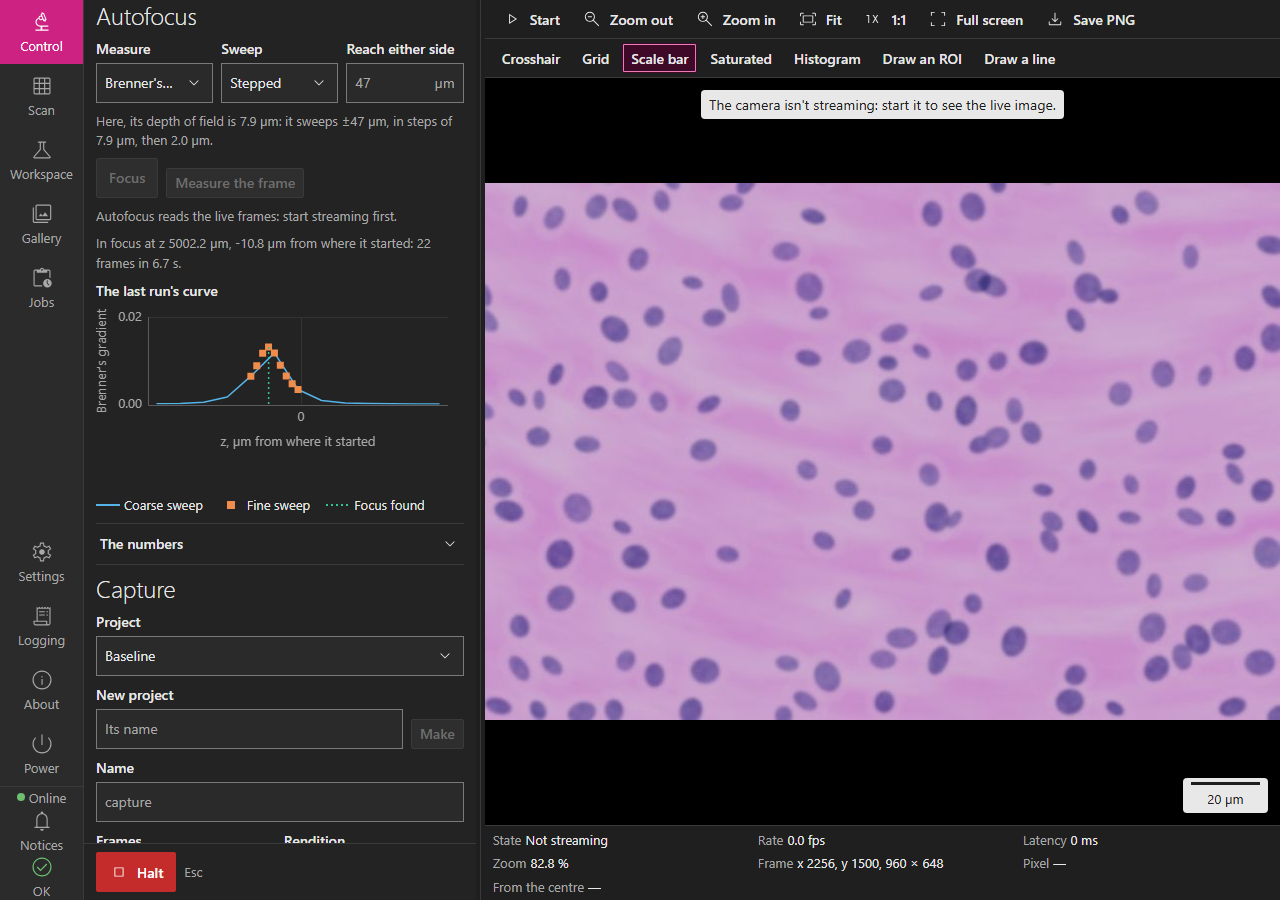
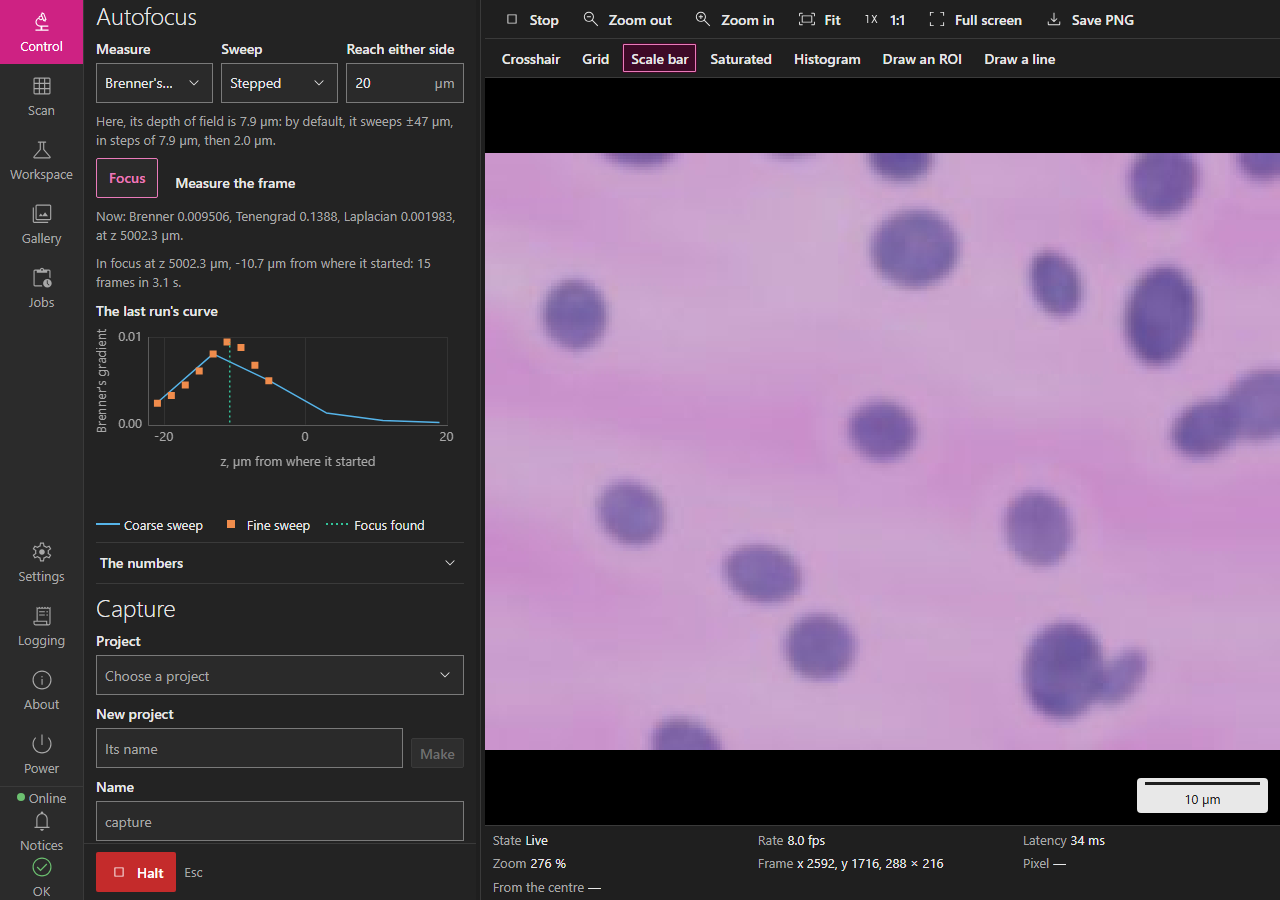
W3.7: the actions' tests light on the processor
The gate's Windows replay failed three times: run eight at once and
unpinned, W3.7's tests held the whole computer, and others timed out.
An autofocus sweep renders the simulator's slide afresh at each z: a
debug server took 38 s of processor time over one, twice at once.

- The actions' tests use a 288 x 216 region; autofocus's sweeps 20 um
  either side, which the test checks was sent; the visual test runs no
  sweep of its own. A sweep now takes 12.6 s of processor time, and
  the suite, unpinned, 2.2 min instead of 5.7.
- The notes' pictures are the autofocus test's.
- A capture's thumbnail has a box of its own, so the pane doesn't move
  with the frame's shape.
- The defaults' line says "by default", beside a reach typed.

diff --git a/web/tests/e2e/actions.spec.ts b/web/tests/e2e/actions.spec.ts
@@ -11,7 +11,7 @@ import { projectPage } from "../../src/api/projects.ts";
 import { expectAccessible } from "./axe.ts";
 import { choose, expect, inScheme, shot, test } from "./fixtures.ts";
 import { colourOf, rgbOf } from "./pixels.ts";
-import { offFocus, overTissue } from "./sim.ts";
+import { offFocus, overTissueTiny } from "./sim.ts";
 
 const said = (page: Page, name: string) => page.locator(`[data-said="${name}"]`);
 const image = (page: Page) => page.getByRole("img", { name: /^The live image/ });
@@ -34,21 +34,49 @@ async function stageZ(url: string): Promise<number> {
 // The server does the sweep: one browser is enough.
 test("autofocus takes the stage to the simulator's true focus", async ({ page, server }) => {
   test.setTimeout(240_000);
-  // 12 µm above the focus, as P34's server test starts.
+  // 12 µm above the focus, as P34's server test starts. A reach of 20 µm sweeps two
+  // thirds of the default's frames: each is the simulator's, rendered at its z, and a
+  // debug server's sweep takes several cores.
   const truth = await offFocus(server.url, 12);
+  // The notes' window, for their pictures below.
+  await page.setViewportSize({ width: 1280, height: 900 });
   await streaming(page, server.url);
   const pane = said(page, "autofocus");
+  const reach = pane.getByRole("spinbutton", { name: "Reach either side" });
+  await reach.fill("20");
+  await reach.press("Enter");
   await pane.getByRole("button", { name: "Focus", exact: true }).click();
   await expect(said(page, "focused")).toContainText("In focus at z", { timeout: 180_000 });
   // Within a quarter of the depth of field, as the server's own test asks.
   const on = new Api(server.url);
-  const last = await call((signal) => on.api.GET("/api/v1/autofocus/last", { signal }));
+  const last = (await call((signal) => on.api.GET("/api/v1/autofocus/last", { signal })))!;
   const error = (await stageZ(server.url)) - truth;
-  expect(Math.abs(error)).toBeLessThan(last!.depth_of_field_um / 4);
+  expect(Math.abs(error)).toBeLessThan(last.depth_of_field_um / 4);
+  // The reach typed is the one swept, a coarse step at most past it.
+  const swept = last.coarse.map((point) => Math.abs(point.z_um - last.start_um));
+  expect(Math.max(...swept)).toBeLessThan(20 + last.depth_of_field_um);
   // The curve, and the frame's measures, read when asked.
   await expect(pane.getByText("The last run's curve")).toBeVisible();
   await pane.getByRole("button", { name: "Measure the frame" }).click();
   await expect(said(page, "measures")).toContainText("Brenner");
+
+  // The notes' pictures: the pane scrolled to the actions, once it scrolls.
+  const controls = page.getByRole("region", { name: "The controls" });
+  await expect
+    .poll(() => controls.evaluate((box) => box.scrollHeight > box.clientHeight))
+    .toBe(true);
+  // Scrolled at each look: the pane takes the window's height a moment after it, and a
+  // scroll before then is undone (W3.7, whose panes made the pane overflow sooner).
+  await expect
+    .poll(async () => {
+      await pane.evaluate((section) => section.scrollIntoView({ block: "start" }));
+      return (await pane.boundingBox())!.y;
+    })
+    .toBeLessThan(100);
+  for (const scheme of ["light", "dark"] as const) {
+    await inScheme(page, scheme);
+    await shot(page, `W3.7-actions-${scheme}`);
+  }
 });
 
 test("a capture makes a record in a project made there, and a burst one of its frames @main", async ({
@@ -56,7 +84,7 @@ test("a capture makes a record in a project made there, and a burst one of its f
   server,
 }) => {
   test.setTimeout(150_000);
-  await overTissue(server.url);
+  await overTissueTiny(server.url);
   await streaming(page, server.url);
   const pane = said(page, "capture");
   await pane.getByRole("textbox", { name: "New project" }).fill("Slides of W3.7");
@@ -114,7 +142,7 @@ test("a live recipe is set and cleared, and one that reads a reference waits for
   server,
 }) => {
   test.setTimeout(150_000);
-  await overTissue(server.url);
+  await overTissueTiny(server.url);
   const on = new Api(server.url);
   await call((signal) => on.api.PUT("/api/v1/camera/exposure", { body: 10, signal }));
   // A debug build's recipes take ten times a release's, and more on two cores: the
@@ -160,7 +188,7 @@ test("the tab's actions have no violation axe can find, in either theme", async 
   server,
 }) => {
   test.setTimeout(150_000);
-  await overTissue(server.url);
+  await overTissueTiny(server.url);
   await streaming(page, server.url);
   await act("/api/v1/projects/create", { name: "Axe" }, { on: new Api(server.url) });
   await page.reload();
@@ -173,13 +201,11 @@ test("the tab's actions have no violation axe can find, in either theme", async 
 
 test("the tab's actions look as their baselines do @visual", async ({ page, server }) => {
   test.skip(!process.env.OSCOPE_VISUAL, "the baselines are one computer's: OSCOPE_VISUAL=1 there");
-  test.setTimeout(240_000);
+  test.setTimeout(150_000);
   // Tall enough for the whole pane: the stage's Halt, sticky at its foot, covers a scrolled one.
   await page.setViewportSize({ width: 1280, height: 4000 });
-  await offFocus(server.url, 12);
+  await overTissueTiny(server.url);
   await streaming(page, server.url);
-  await said(page, "autofocus").getByRole("button", { name: "Focus", exact: true }).click();
-  await expect(said(page, "focused")).toContainText("In focus at z", { timeout: 180_000 });
   await said(page, "capture").getByRole("textbox", { name: "New project" }).fill("Baseline");
   await said(page, "capture").getByRole("button", { name: "Make", exact: true }).click();
   await said(page, "capture-run").click();
@@ -189,34 +215,12 @@ test("the tab's actions look as their baselines do @visual", async ({ page, serv
   await page.mouse.move(5, 5);
   for (const scheme of ["light", "dark"] as const) {
     await inScheme(page, scheme);
-    // The run's numbers, its curve and the thumbnail are the simulator's: masked.
-    await expect(said(page, "autofocus")).toHaveScreenshot(`autofocus-${scheme}.png`, {
-      mask: [said(page, "focused"), said(page, "autofocus").locator("canvas")],
-    });
+    // Autofocus before a run: a run's curve is the autofocus test's, and its pictures.
+    await expect(said(page, "autofocus")).toHaveScreenshot(`autofocus-${scheme}.png`);
+    // The thumbnail is the simulator's: masked.
     await expect(said(page, "capture")).toHaveScreenshot(`capture-${scheme}.png`, {
       mask: [said(page, "thumbnail")],
     });
     await expect(said(page, "recipe")).toHaveScreenshot(`recipe-${scheme}.png`);
-  }
-  // The notes' pictures: a window's height, the pane scrolled to the actions.
-  await page.setViewportSize({ width: 1280, height: 900 });
-  // The control pane scrolls once the window is shorter: then it is scrolled to the actions.
-  const controls = page.getByRole("region", { name: "The controls" });
-  await expect
-    .poll(() => controls.evaluate((box) => box.scrollHeight > box.clientHeight))
-    .toBe(true);
-  // Scrolled at each look: the pane takes the window's height a moment after it, and a
-  // scroll before then is undone (W3.7, whose panes made the pane overflow sooner).
-  await expect
-    .poll(async () => {
-      await said(page, "autofocus").evaluate((section) =>
-        section.scrollIntoView({ block: "start" }),
-      );
-      return (await said(page, "autofocus").boundingBox())!.y;
-    })
-    .toBeLessThan(100);
-  for (const scheme of ["light", "dark"] as const) {
-    await inScheme(page, scheme);
-    await shot(page, `W3.7-actions-${scheme}`);
   }
 });

diff --git a/web/tests/e2e/sim.ts b/web/tests/e2e/sim.ts
@@ -82,11 +82,26 @@ export async function inFocus(url: string): Promise<number> {
 }
 
 /**
+ * A tiny region of the camera: 288 × 216 pixels about the sensor's centre, on
+ * its grid of 12, about what P34's server test focuses on. An autofocus sweep
+ * renders a frame at each z, and a live recipe runs on each frame: on the
+ * small region, W3.7's tests, unpinned in the Windows replay, held the whole
+ * computer, and the other tests timed out.
+ */
+export const TINY = { x: 2592, y: 1716, width: 288, height: 216 };
+
+/** The stage over the tissue, on the fast clock, and the camera given the tiny region. */
+export async function overTissueTiny(url: string): Promise<void> {
+  await onTissue(url);
+  await call((signal) => new Api(url).api.PUT("/api/v1/camera/roi", { body: TINY, signal }));
+}
+
+/**
  * The stage over the tissue, `by` µm above where it is sharpest, on the fast
- * clock, and the camera's small region: the focus's truth.
+ * clock, and the camera's tiny region: the focus's truth.
  */
 export async function offFocus(url: string, by: number): Promise<number> {
-  await overTissue(url);
+  await overTissueTiny(url);
   const truth = await inFocus(url);
   const to = { ...TISSUE, z: truth + by, speed: 25_000 };
   await fast(url, () => act("/api/v1/stage/move_to", to, { on: new Api(url) }));

diff --git a/web/src/app/locales/en.ts b/web/src/app/locales/en.ts
@@ -79,7 +79,7 @@ export default {
     sweeps: { stepped: "Stepped", continuous: "Continuous" },
     reach: "Reach either side",
     defaults:
-      "Here, its depth of field is {depth} µm: it sweeps ±{reach} µm, in steps of {coarse} µm, then {fine} µm.",
+      "Here, its depth of field is {depth} µm: by default, it sweeps ±{reach} µm, in steps of {coarse} µm, then {fine} µm.",
     run: "Focus",
     running: "Focusing…",
     measureNow: "Measure the frame",

diff --git a/web/src/features/control/capture/CapturePane.vue b/web/src/features/control/capture/CapturePane.vue
@@ -219,8 +219,11 @@ const madeSaid = computed(() => {
   align-items: center;
 }
 
+/* A box of its own, whatever the frame's shape: the pane doesn't move. */
 .record img {
-  max-inline-size: 6rem;
+  inline-size: 6rem;
+  block-size: 4.5rem;
+  object-fit: contain;
   border-radius: var(--radius-control);
 }
 

diff --git a/docs/milestone-2/notes/W3.7-autofocus-capture-recipe.md b/docs/milestone-2/notes/W3.7-autofocus-capture-recipe.md
@@ -2,7 +2,7 @@
 
 - Status: In review
 - Branch / PR: `m2/w3.7-autofocus-capture-recipe` / [#99](https://github.com/lucaswewa/OScope/pull/99)
-- Estimate: first 1,400, the spec's · second ~1,300 (code ~700, tests ~110, styles ~70, try-it ~380, glue ~40), in the plan's change log before the code, 7 % under the first · measured **1,483** hand-written lines changed (code 757, tests 126, styles 115, try-it 485, glue 0): 14 % over the second estimate, and 6 % over the first. The try-it took more: the recording script, written against the API as it is because Node can't run the app's client (91); the end-to-end helpers W3.6's tests now share (80); and the earlier panes' visual tests made to scroll at each look (28). So did the three panes' styles. The recorded run is data, left out of the size.
+- Estimate: first 1,400, the spec's · second ~1,300 (code ~700, tests ~110, styles ~70, try-it ~380, glue ~40), in the plan's change log before the code, 7 % under the first · measured **1,505** hand-written lines changed (code 757, tests 126, styles 118, try-it 504, glue 0): 16 % over the second estimate, and 8 % over the first. The try-it took more: the recording script, written against the API as it is because Node can't run the app's client (91); the end-to-end helpers W3.6's tests now share (80); the earlier panes' visual tests made to scroll at each look (28); and the gate's fix, below (19). So did the three panes' styles. The recorded run is data, left out of the size.
 
 ## Summary
 
@@ -52,6 +52,8 @@ Open `http://127.0.0.1:8211/#/control`, home the stage, move it over the tissue 
 - **A raw capture's thumbnail is grey,** the Bayer mosaic's own: the store's thumbnails aren't demosaiced, as ADR-0030 says. Its rendition, when asked for, is demosaiced.
 - **A debug build's recipes are slow:** the green channel alone took 141 ms on the check's 1920 × 1080 image, against a budget of 20 ms, and was refused, as the pane said. The end-to-end test raises its own server's budget to 5 s; a release build is within it.
 - **The panes' visual tests scroll at each look:** with W3.7's three panes, the control pane overflows even at the tall window the visual tests use. So the stage's and the lights' tests (W3.3, W3.4) scrolled before the pane took the shorter window's height, and the scroll was undone, in two of five two-core runs. Each now scrolls again at each look, until its pane is at the top.
+- **The actions' tests are light on the processor:** in the Windows replay, eight tests at once and unpinned, W3.7's first tests held the whole computer, and the gate's replays failed three times. An autofocus sweep renders the simulator's slide afresh at each z, and a debug server took 38 s of processor time over it, twice at once with the visual test's own. The suite then took 5.7 min instead of 2.2, and other tests timed out. Now the actions' tests use a 288 × 216 region, about what P34's server test focuses on; autofocus's sweeps 20 µm either side, checked; and the visual test runs no sweep of its own. A sweep takes 12.6 s of processor time, and the suite, unpinned, 2.2 min, twice. The notes' pictures are the autofocus test's.
+- **A capture's thumbnail has a box of its own,** 6 by 4.5 rem, the picture fitted in it: the pane doesn't move with the frame's shape.
 - **The recipe's cost** is the server's check as it was set: its time on an image the default viewport's size, against `recipe_budget_ms`. The live sessions' times are said too, the slowest's, as no session says which is the page's own.
 
 ## Tests
@@ -59,7 +61,7 @@ Open `http://127.0.0.1:8211/#/control`, home the stage, move it over the tissue 
 - **Unit, 8 new, 614 in all:** the curve from a recorded run (`scripts/record-focus.mjs`: a stepped run of 22 frames, 13 coarse and 9 fine, its focus 0.23 µm from the simulator's truth); the recipes that come with the app, each wired whole, their steps in order, and the references they read; a file's recipe taken, and refused saying why.
 - **Contract:** the project list's page, as `projects.ts` has it.
 - **End to end, 5 new, run 7 times across the browsers, 213 in all:**
-  - **autofocus to the simulator's true focus,** from 12 µm above it, within a quarter of the depth of field, as P34's server test asks; the curve drawn, and the measures read;
+  - **autofocus to the simulator's true focus,** from 12 µm above it, within a quarter of the depth of field, as P34's server test asks; the reach typed, 20 µm, the one swept; the curve drawn, and the measures read;
   - **a capture making a record** in a project made there, its thumbnail, its rendition and its link; and a burst of three, in Chromium, Firefox and WebKit;
   - **a live recipe set and cleared:** the green channel alone turns the preview grey, and none brings its colours back; the flat field refused until its reference is captured, then set;
   - **axe,** in both themes;
